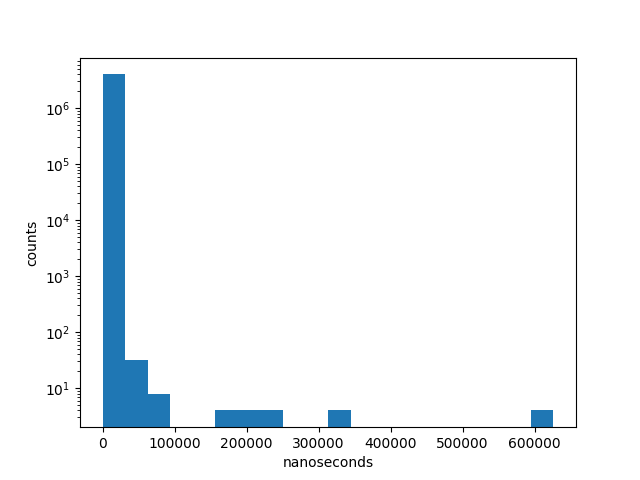
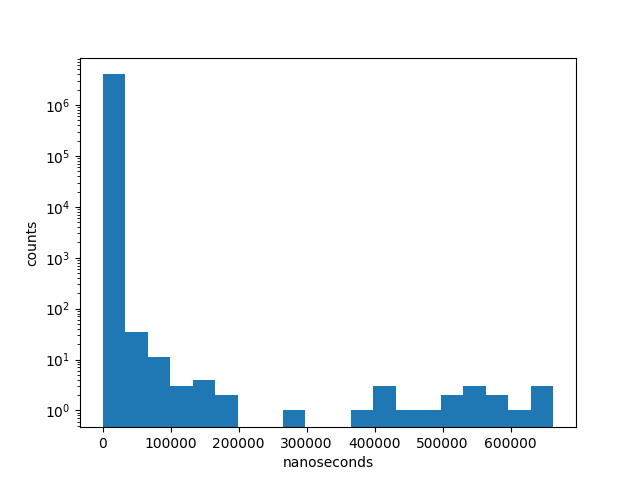
goroutine

diff --git a/pthreads/testgo.go b/pthreads/testgo.go
@@ -1,0 +1,66 @@
+package main
+
+import (
+	"bytes"
+	"encoding/binary"
+	"fmt"
+	"os"
+	"strconv"
+	"sync"
+	"time"
+)
+
+var n_procs int = 16
+
+const N_ITERS int = 1000000
+
+var time_elps [128][N_ITERS]float64
+
+func worker(id int) {
+	var time_accum float64 = 0
+	var time_min float64 = 1000000000
+	var time_max float64 = 0
+
+	last_time := time.Now().UnixNano()
+	for j := 0; j < N_ITERS; j++ {
+		curr_time := time.Now().UnixNano()
+		time_elapsed := float64(curr_time - last_time) // in accordance to c++ code
+		last_time = curr_time
+		time_accum += time_elapsed
+		if time_elapsed < time_min {
+			time_min = time_elapsed
+		}
+		if time_elapsed > time_max {
+			time_max = time_elapsed
+		}
+		time_elps[id][j] = time_elapsed
+	}
+
+	buf := new(bytes.Buffer)
+	err := binary.Write(buf, binary.LittleEndian, time_elps[id])
+	if err != nil {
+		fmt.Println("binary.Write failed:", err)
+	}
+	bytes := buf.Bytes()
+	os.WriteFile(fmt.Sprintf("results/result%v", id), bytes, 0666)
+	fmt.Printf("Goroutine %d exited. time_avg=%v, time_min=%v, time_max=%v\n", id, time_accum/float64(N_ITERS), time_min, time_max)
+
+}
+
+func main() {
+	n_procs, _ = strconv.Atoi(os.Args[1])
+
+	var wg sync.WaitGroup
+
+	for i := 0; i < n_procs; i++ {
+		wg.Add(1)
+
+		go func() {
+			defer wg.Done()
+			worker(i)
+		}()
+	}
+
+	wg.Wait()
+
+}

diff --git a/pthreads/testpt.cpp b/pthreads/testpt.cpp
@@ -26,7 +26,7 @@ void *thread_main(void * data){
     char filename[256];
     sprintf(filename, "results/result%d", i);
     FILE* f = fopen(filename, "w");
-    fwrite(time_elps, sizeof(double), N_ITERS, f);
+    fwrite(time_elps[i], sizeof(double), N_ITERS, f);
     fclose(f);
     pthread_exit(NULL);
 }
